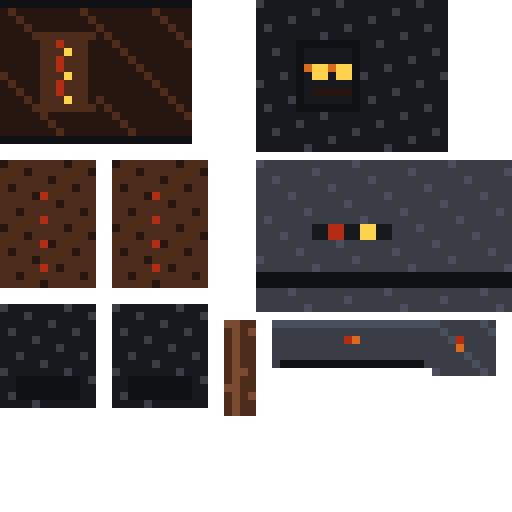
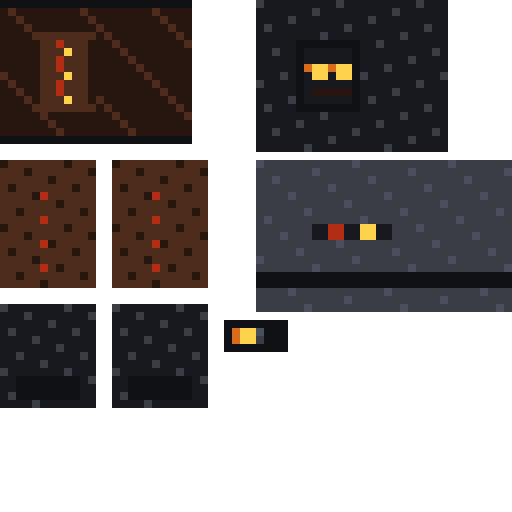
Equip Hollow Miner with iron pickaxe and helmet lamp

Changed region(s): [[0.4375, 0.625, 0.9688, 0.8125]]

diff --git a/caos-arcana-mod/src/client/java/br/com/caosarcana/client/model/MineiroOcoModel.java b/caos-arcana-mod/src/client/java/br/com/caosarcana/client/model/MineiroOcoModel.java
@@ -2,6 +2,7 @@ package br.com.caosarcana.client.model;
 
 import br.com.caosarcana.CaosArcana;
 import br.com.caosarcana.common.entity.MineiroOcoEntity;
+import net.minecraft.client.model.ArmedModel;
 import com.mojang.blaze3d.vertex.PoseStack;
 import com.mojang.blaze3d.vertex.VertexConsumer;
 import net.fabricmc.api.EnvType;
@@ -15,9 +16,10 @@ import net.minecraft.client.model.geom.builders.LayerDefinition;
 import net.minecraft.client.model.geom.builders.MeshDefinition;
 import net.minecraft.client.model.geom.builders.PartDefinition;
 import net.minecraft.resources.ResourceLocation;
+import net.minecraft.world.entity.HumanoidArm;
 
 @Environment(EnvType.CLIENT)
-public final class MineiroOcoModel extends EntityModel<MineiroOcoEntity> {
+public final class MineiroOcoModel extends EntityModel<MineiroOcoEntity> implements ArmedModel {
     public static final ModelLayerLocation LAYER_LOCATION =
             new ModelLayerLocation(CaosArcana.id("mineiro_oco"), "main");
     public static final ResourceLocation TEXTURE_LOCATION =
@@ -59,24 +61,15 @@ public final class MineiroOcoModel extends EntityModel<MineiroOcoEntity> {
                 CubeListBuilder.create().texOffs(32, 20)
                         .addBox(-4.0F, -5.0F, -4.0F, 8.0F, 3.0F, 8.0F),
                 PartPose.offset(0.0F, 0.0F, 0.0F));
+        head.addOrReplaceChild("helmet_lamp",
+                CubeListBuilder.create().texOffs(28, 40)
+                        .addBox(-1.5F, -1.0F, -0.5F, 3.0F, 2.0F, 1.0F),
+                PartPose.offset(0.0F, -3.5F, -4.0F));
 
         PartDefinition rightArm = root.addOrReplaceChild("right_arm",
                 CubeListBuilder.create().texOffs(0, 20)
                         .addBox(-1.5F, 0.0F, -1.5F, 3.0F, 10.0F, 3.0F),
                 PartPose.offset(-5.5F, 10.0F, 0.0F));
-        rightArm.addOrReplaceChild("pickaxe_handle",
-                CubeListBuilder.create().texOffs(28, 40)
-                        .addBox(-0.5F, 6.0F, -0.5F, 1.0F, 10.0F, 1.0F),
-                PartPose.ZERO);
-        rightArm.addOrReplaceChild("pickaxe_head",
-                CubeListBuilder.create().texOffs(34, 40)
-                        .addBox(-4.0F, 5.0F, -1.0F, 8.0F, 2.0F, 2.0F),
-                PartPose.ZERO);
-        rightArm.addOrReplaceChild("pickaxe_point",
-                CubeListBuilder.create().texOffs(54, 40)
-                        .addBox(2.0F, 3.5F, -1.0F, 2.0F, 4.0F, 2.0F),
-                PartPose.ZERO);
-
         root.addOrReplaceChild("left_arm",
                 CubeListBuilder.create().texOffs(14, 20)
                         .addBox(-1.5F, 0.0F, -1.5F, 3.0F, 10.0F, 3.0F),
@@ -95,6 +88,11 @@ public final class MineiroOcoModel extends EntityModel<MineiroOcoEntity> {
     }
 
     @Override
+    public void translateToHand(HumanoidArm arm, PoseStack poseStack) {
+        (arm == HumanoidArm.RIGHT ? rightArm : leftArm).translateAndRotate(poseStack);
+    }
+
+    @Override
     public void setupAnim(MineiroOcoEntity entity, float limbSwing, float limbSwingAmount,
                           float ageInTicks, float netHeadYaw, float headPitch) {
         head.yRot = netHeadYaw * ((float) Math.PI / 180.0F);
@@ -105,15 +103,19 @@ public final class MineiroOcoModel extends EntityModel<MineiroOcoEntity> {
         rightLeg.xRot = (float) Math.cos(walk) * step;
         leftLeg.xRot = (float) Math.cos(walk + Math.PI) * step;
 
+        rightArm.xRot = (float) Math.cos(walk + Math.PI) * 0.5F * limbSwingAmount;
+        leftArm.xRot = (float) Math.cos(walk) * 0.5F * limbSwingAmount;
         if (entity.isAggressive()) {
-            float raisedPickaxe = -1.1F + (float) Math.sin(ageInTicks * 0.18F) * 0.08F;
-            rightArm.xRot = raisedPickaxe - this.attackTime * 0.85F;
+            rightArm.xRot = -0.9F + (float) Math.sin(ageInTicks * 0.18F) * 0.06F;
             leftArm.xRot = -0.12F;
-        } else {
-            rightArm.xRot = 0.12F + (float) Math.cos(walk) * 0.08F;
-            leftArm.xRot = 0.12F + (float) Math.cos(walk + Math.PI) * 0.08F;
         }
-        rightArm.zRot = -0.08F;
+        if (this.attackTime > 0.0F) {
+            float strike = (float) Math.sin(this.attackTime * Math.PI);
+            rightArm.xRot = -1.2F + strike * 1.8F;
+            rightArm.zRot = -0.12F - strike * 0.18F;
+        } else {
+            rightArm.zRot = -0.08F;
+        }
         leftArm.zRot = 0.08F;
         body.y = 12.0F + (float) Math.cos(ageInTicks * 0.08F) * 0.08F;
     }

diff --git a/caos-arcana-mod/src/main/java/br/com/caosarcana/common/entity/MineiroOcoEntity.java b/caos-arcana-mod/src/main/java/br/com/caosarcana/common/entity/MineiroOcoEntity.java
@@ -1,6 +1,7 @@
 package br.com.caosarcana.common.entity;
 
 import net.minecraft.world.entity.EntityType;
+import net.minecraft.world.entity.EquipmentSlot;
 import net.minecraft.world.entity.Mob;
 import net.minecraft.world.entity.ai.attributes.AttributeSupplier;
 import net.minecraft.world.entity.ai.attributes.Attributes;
@@ -11,11 +12,14 @@ import net.minecraft.world.entity.ai.goal.RandomLookAroundGoal;
 import net.minecraft.world.entity.ai.goal.RandomStrollGoal;
 import net.minecraft.world.entity.ai.goal.target.NearestAttackableTargetGoal;
 import net.minecraft.world.entity.player.Player;
+import net.minecraft.world.item.ItemStack;
+import net.minecraft.world.item.Items;
 import net.minecraft.world.level.Level;
 
 public final class MineiroOcoEntity extends TerrasDaCinzaMob {
     public MineiroOcoEntity(EntityType<? extends MineiroOcoEntity> entityType, Level level) {
         super(entityType, level);
+        setItemSlot(EquipmentSlot.MAINHAND, new ItemStack(Items.IRON_PICKAXE));
     }
 
     public static AttributeSupplier.Builder createAttributes() {

diff --git a/caos-arcana-mod/src/client/java/br/com/caosarcana/client/renderer/MineiroOcoRenderer.java b/caos-arcana-mod/src/client/java/br/com/caosarcana/client/renderer/MineiroOcoRenderer.java
@@ -6,6 +6,7 @@ import net.fabricmc.api.EnvType;
 import net.fabricmc.api.Environment;
 import net.minecraft.client.renderer.entity.EntityRendererProvider;
 import net.minecraft.client.renderer.entity.MobRenderer;
+import net.minecraft.client.renderer.entity.layers.ItemInHandLayer;
 import net.minecraft.resources.ResourceLocation;
 
 @Environment(EnvType.CLIENT)
@@ -14,6 +15,7 @@ public final class MineiroOcoRenderer extends MobRenderer<MineiroOcoEntity, Mine
         super(context,
                 new MineiroOcoModel(context.bakeLayer(MineiroOcoModel.LAYER_LOCATION)),
                 0.45F);
+        addLayer(new ItemInHandLayer<>(this));
     }
 
     @Override

diff --git a/visual_studies/inimigos/terras_da_cinza/mineiro_oco_uv.md b/visual_studies/inimigos/terras_da_cinza/mineiro_oco_uv.md
@@ -9,11 +9,9 @@ Atlas de 64 x 64 px para o modelo Java `MineiroOcoModel`. A frente do modelo apo
 | Capacete e aba | 8 x 3 x 8 | (32, 20) |
 | Braços (atlas compartilhado) | 3 x 10 x 3 | (0, 20), (14, 20) |
 | Pernas (atlas compartilhado) | 3 x 7 x 3 | (0, 38), (14, 38) |
-| Cabo da picareta | 1 x 10 x 1 | (28, 40) |
-| Cabeça da picareta | 8 x 2 x 2 | (34, 40) |
-| Ponta da picareta | 2 x 4 x 2 | (54, 40) |
+| Lente da lanterna do capacete | 3 x 2 x 1 | (28, 40) |
 
-Os olhos em brasa ficam na frente da cabeça, sob o capacete. A roupa usa couro queimado e carvão; a picareta tem cabo de madeira escura e cabeça de basalto rachado com veios de brasa.
+Os olhos em brasa ficam na frente da cabeça, sob o capacete. A roupa usa couro queimado e carvão. A lanterna tem uma lente dourada na frente do capacete. O mob equipa uma picareta de ferro real no slot principal da mão; o modelo a posiciona e anima durante o ataque.
 
 ## Comportamento
 
